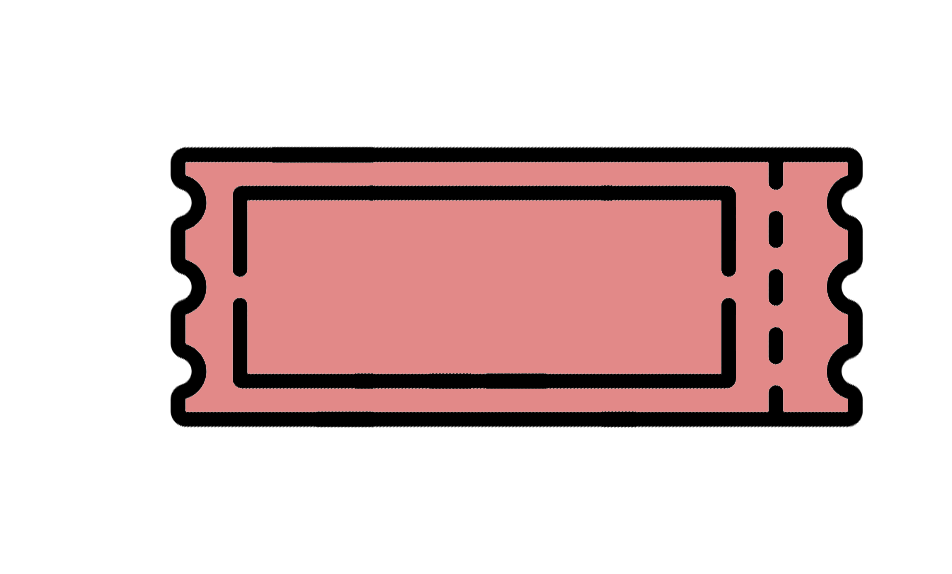
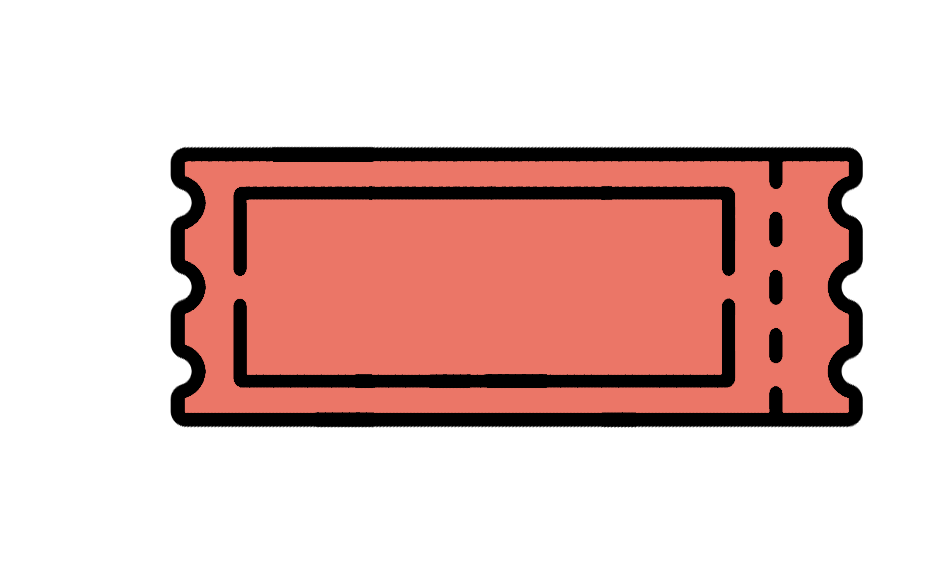
update app color

Changed region(s): [[0.1828, 0.2666, 0.9139, 0.7404]]

diff --git a/KokoHabit/KokoHabit/ViewControllers/MyHabitsViewController.swift b/KokoHabit/KokoHabit/ViewControllers/MyHabitsViewController.swift
@@ -84,7 +84,7 @@ class MyHabitsViewController: UIViewController, UITableViewDelegate, UITableView
             let indexSet = IndexSet(arrayLiteral: indexPath.section)
             self.tableView.deleteSections(indexSet, with: .none)
         })
-        deleteAction.backgroundColor = #colorLiteral(red: 0.7764705882, green: 0.2745098039, blue: 0.2196078431, alpha: 1)
+        deleteAction.backgroundColor = .red
         
         return [deleteAction]
     }
@@ -103,7 +103,7 @@ class MyHabitsViewController: UIViewController, UITableViewDelegate, UITableView
             
             self.performSegue(withIdentifier: "goToEditHabitPage", sender: self)
         })
-        editAction.backgroundColor = #colorLiteral(red: 0.831372549, green: 0.8784313725, blue: 0.6078431373, alpha: 1)
+        editAction.backgroundColor = .blue
         
         return UISwipeActionsConfiguration(actions: [editAction])
     }

diff --git a/KokoHabit/KokoHabit/Classes/HabitCell.swift b/KokoHabit/KokoHabit/Classes/HabitCell.swift
@@ -32,7 +32,7 @@ class HabitCell: UITableViewCell {
     func setUncompletedHabit(){
         lblHabitName.textColor = #colorLiteral(red: 0.2, green: 0.2, blue: 0.2, alpha: 1)
         lblHabitPoint.textColor = #colorLiteral(red: 0.2, green: 0.2, blue: 0.2, alpha: 1)
-        percentageView.backgroundColor = UIColor.init(colorWithHexValue: 0xE18988)
+        percentageView.backgroundColor = UIColor.init(colorWithHexValue: 0xEB7667)
     }
     
     func setPercentageViewFrame(frame: CGRect) {
